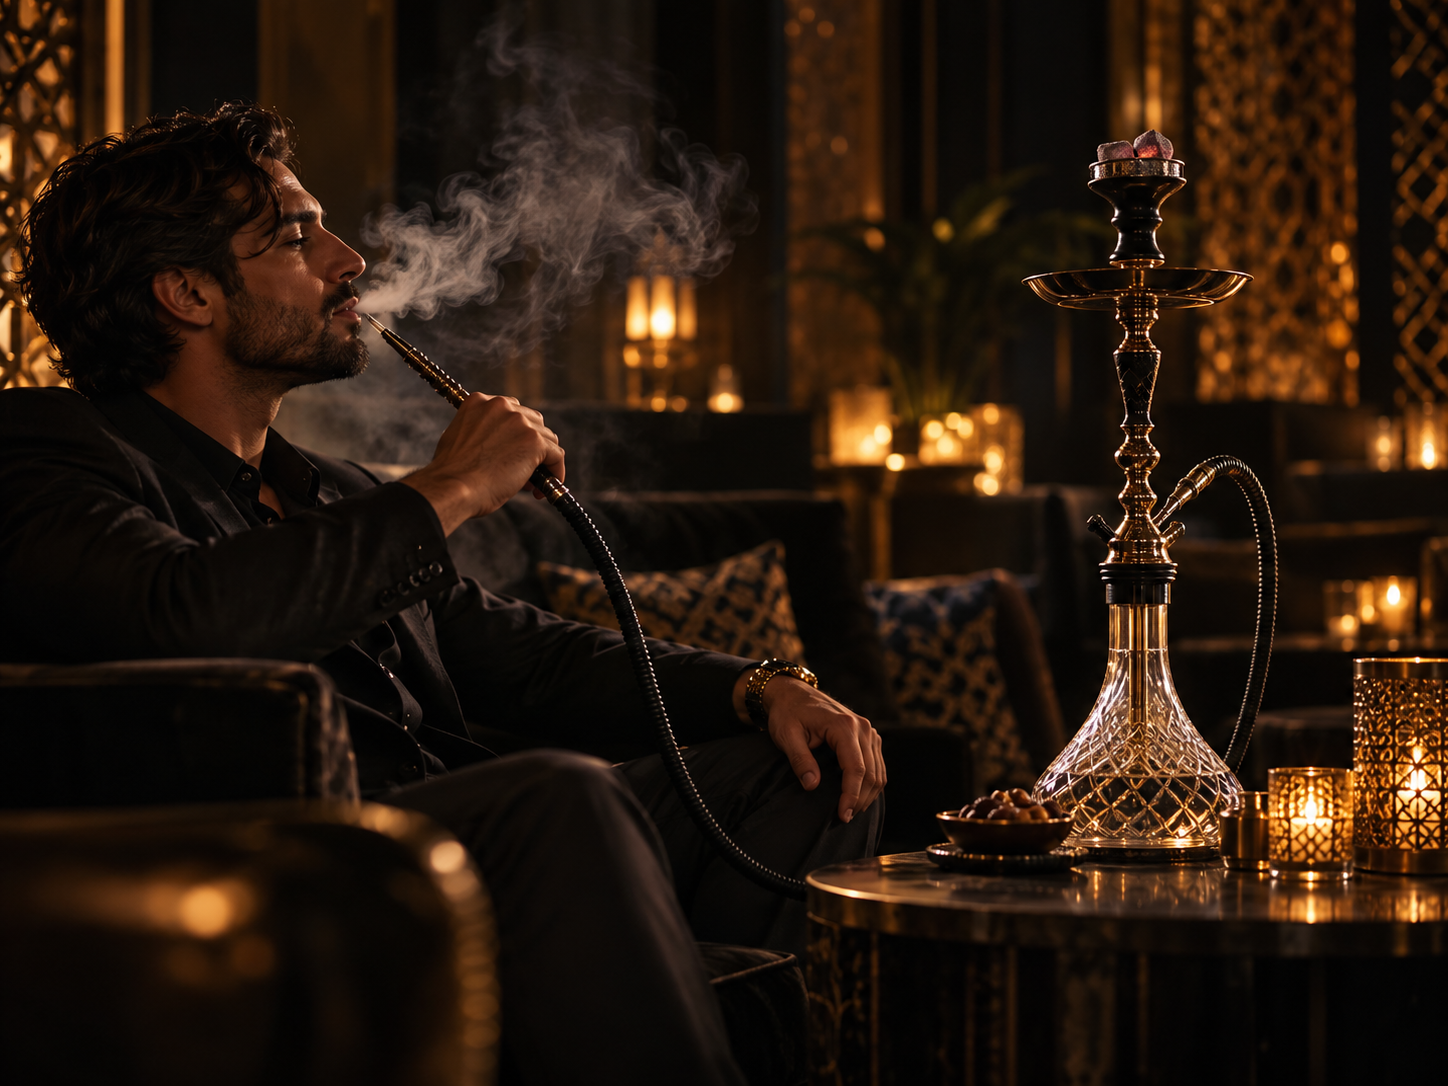
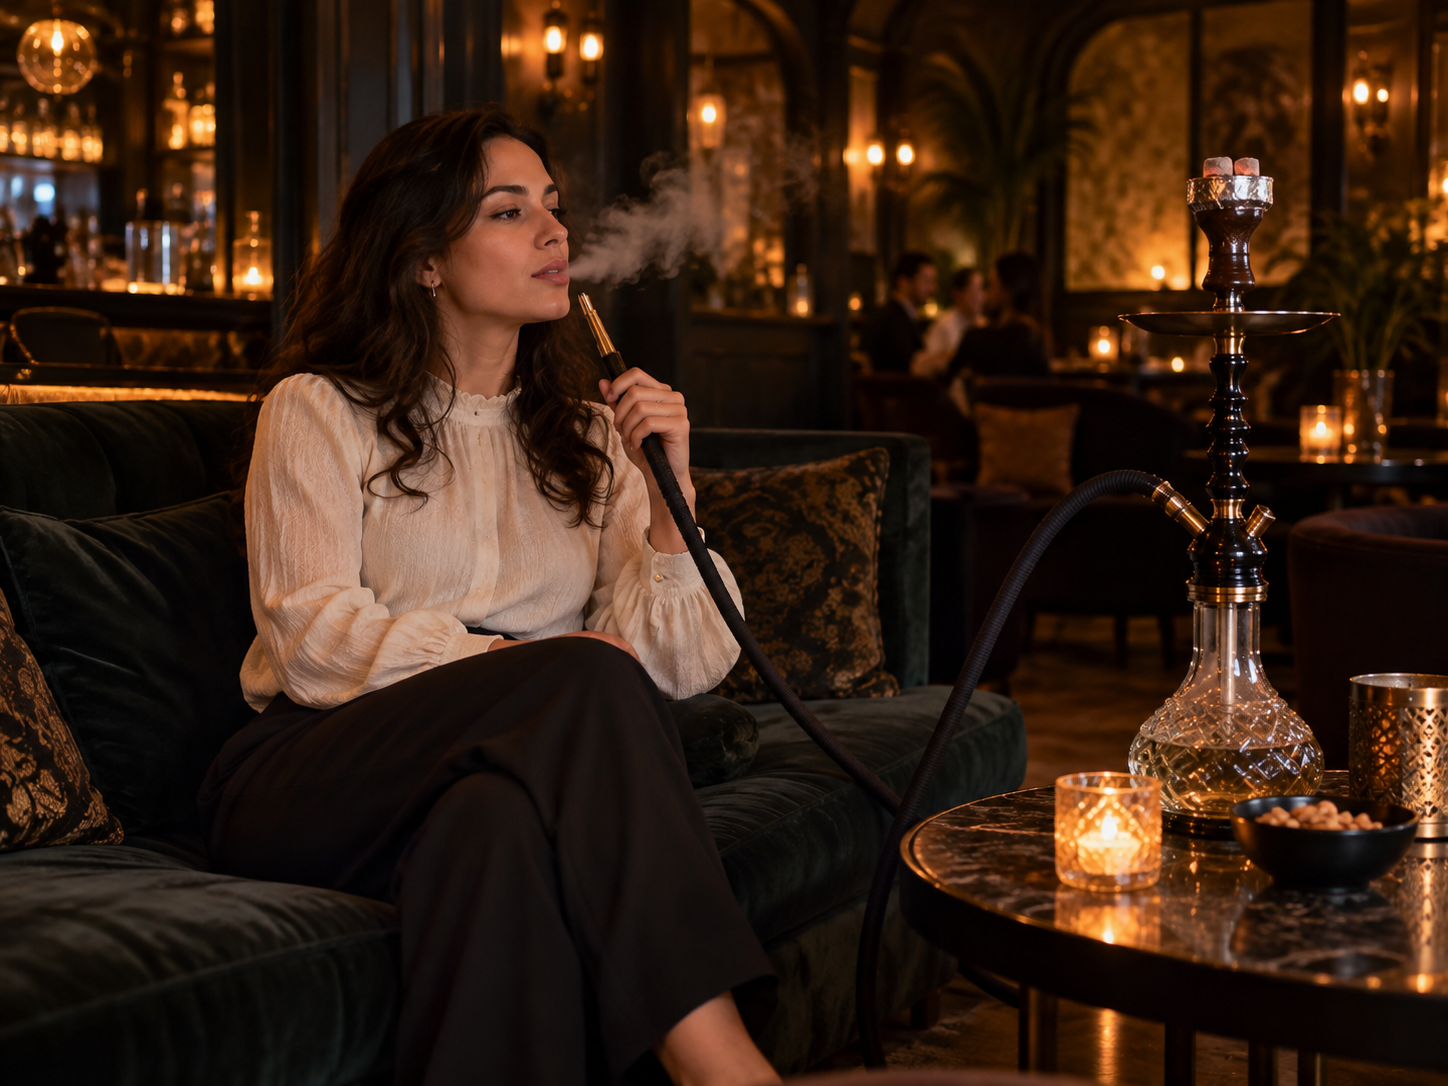
Refine experience cards with smaller imagery and adult women models

diff --git a/assets/style.css b/assets/style.css
@@ -64,10 +64,10 @@ h1,h2,h3,.photo-intro>p:last-child{font-family:var(--serif);font-weight:300}
 @media(max-width:520px){.service-price>strong{font-size:22px}}
 
 /* Darts and shisha: cinematic visual followed by copy and confirmed pricing. */
-.leisure-list{display:grid;gap:34px}.leisure-row{display:grid;grid-template-columns:minmax(0,3fr) minmax(0,2fr);padding:10px;border:1px solid #b5a47c80;background:var(--bg)}
-.leisure-visual{position:relative;min-width:0;overflow:hidden}.leisure-visual img{display:block;width:100%;height:100%;min-height:390px;object-fit:cover;object-position:center;background:var(--panel)}
-.leisure-visual::after{content:"";position:absolute;inset:0;pointer-events:none;background:linear-gradient(90deg,rgba(0,0,0,.06),rgba(0,0,0,.1))}
-.leisure-content{min-width:0;display:flex;flex-direction:column;justify-content:center;padding:36px 34px}
+.leisure-list{display:grid;gap:34px}.leisure-row{display:grid;grid-template-columns:minmax(0,2fr) minmax(0,3fr);padding:24px;border:1px solid #b5a47c80;background:var(--bg)}
+.leisure-visual{position:relative;min-width:0;overflow:hidden;align-self:center}.leisure-visual img{display:block;width:100%;height:auto;min-height:0;aspect-ratio:4/3;object-fit:contain;object-position:center;background:var(--panel)}
+.leisure-visual::after{content:"";position:absolute;inset:0;pointer-events:none;background:linear-gradient(90deg,rgba(0,0,0,.19),rgba(0,0,0,.25))}
+.leisure-content{min-width:0;display:flex;flex-direction:column;justify-content:center;padding:24px 36px}
 .leisure-label{font-size:16px;letter-spacing:.18em;font-weight:500;color:var(--gold);margin-bottom:25px}
 .leisure-content h3{font-family:var(--serif);font-weight:300;font-size:clamp(29px,2.7vw,40px);line-height:1.6;letter-spacing:.065em;margin:0 0 22px}
 .leisure-content h3>span{display:block;font-size:16px;font-weight:500;letter-spacing:.14em;color:var(--muted);margin-bottom:5px}
@@ -75,6 +75,6 @@ h1,h2,h3,.photo-intro>p:last-child{font-family:var(--serif);font-weight:300}
 .leisure-price{border-top:1px solid #b5a47c80;margin-top:30px;padding-top:22px;font-size:20px;letter-spacing:.05em;color:#d5c39d;line-height:1.8}
 .leisure-price strong{font-family:var(--serif);font-size:36px;font-weight:400;letter-spacing:.04em;margin:0 8px}
 .leisure-note{font-size:14px;line-height:1.9;margin-top:18px;color:var(--muted)}.leisure-image-note{font-size:14px;line-height:1.9;margin-top:22px;color:var(--muted)}
-@media(max-width:1100px){.leisure-content{padding:28px 24px}.leisure-row{grid-template-columns:minmax(0,1.2fr) minmax(0,1fr)}}
-@media(max-width:800px){.leisure-row{grid-template-columns:minmax(0,1fr);padding:8px}.leisure-visual img{height:auto;min-height:0;aspect-ratio:4/3;object-fit:contain}.leisure-content{padding:28px 22px 24px}.leisure-label{font-size:15px;margin-bottom:18px}.leisure-content h3{font-size:32px;margin-bottom:18px}.leisure-price{margin-top:24px;padding-top:18px}.leisure-price strong{font-size:32px}.leisure-list{gap:26px}}
-@media(max-width:360px){.leisure-content{padding:24px 16px}.leisure-content h3{font-size:29px}.leisure-price{font-size:18px}.leisure-price strong{font-size:30px}}
+@media(max-width:1100px){.leisure-content{padding:28px 24px}.leisure-row{grid-template-columns:minmax(0,37fr) minmax(0,63fr)}}
+@media(max-width:800px){.leisure-row{grid-template-columns:minmax(0,1fr);padding:16px}.leisure-visual{width:70%;justify-self:center}.leisure-visual img{height:auto;min-height:0;aspect-ratio:4/3;object-fit:contain}.leisure-content{padding:28px 8px 24px}.leisure-label{font-size:15px;margin-bottom:18px}.leisure-content h3{font-size:32px;margin-bottom:18px}.leisure-price{margin-top:24px;padding-top:18px}.leisure-price strong{font-size:32px}.leisure-list{gap:26px}}
+@media(max-width:360px){.leisure-content{padding:24px 8px}.leisure-content h3{font-size:29px}.leisure-price{font-size:18px}.leisure-price strong{font-size:30px}}

diff --git a/index.html b/index.html
@@ -12,7 +12,7 @@
   <meta property="og:description" content="吉祥寺北町で、夜をゆっくり。月〜土 20:00〜翌4:00。ダーツ・シーシャのあるBAR REALTA。">
   <link rel="icon" href="assets/favicon.svg" type="image/svg+xml">
   <link rel="stylesheet" href="assets/fonts.css">
-  <link rel="stylesheet" href="assets/style.css?v=4cb14e6a044d">
+  <link rel="stylesheet" href="assets/style.css?v=428f2d0a8d94">
   <link rel="stylesheet" href="assets/hero.css?v=784bd300a1dc">
   <script src="assets/main.js" defer></script>
   <script type="application/ld+json">
@@ -91,7 +91,7 @@
       <div class="section-heading"><h2 id="experience-title">夜の楽しみ方は、自由に。</h2><p>気分に合わせて、もうひとつの楽しみを。</p></div>
       <div class="leisure-list">
         <article class="leisure-row" aria-labelledby="darts-title">
-          <div class="leisure-visual"><img src="assets/images/darts-atmosphere.png" width="1448" height="1086" alt="暗いバーでダーツを構える大人の手元と、背景のダーツボードを描いたイメージ画像" loading="lazy" decoding="async"></div>
+          <div class="leisure-visual"><img src="assets/images/darts-atmosphere.png?v=089d7538b712" width="1448" height="1086" alt="暗いバーで大人の女性がダーツを構える様子と、背景のダーツボードを描いたイメージ画像" loading="lazy" decoding="async"></div>
           <div class="leisure-content">
             <p class="leisure-label">01 / PLAY</p>
             <h3 id="darts-title"><span>DARTS /</span> ダーツ</h3>
@@ -100,7 +100,7 @@
           </div>
         </article>
         <article class="leisure-row" aria-labelledby="shisha-title">
-          <div class="leisure-visual"><img src="assets/images/shisha-atmosphere.png" width="1448" height="1086" alt="落ち着いたラウンジで大人がシーシャを楽しむ様子と、シーシャ本体を描いたイメージ画像" loading="lazy" decoding="async"></div>
+          <div class="leisure-visual"><img src="assets/images/shisha-atmosphere.png?v=28161f9a0fdc" width="1448" height="1086" alt="落ち着いたラウンジで大人の女性がシーシャを楽しむ様子と、シーシャ本体を描いたイメージ画像" loading="lazy" decoding="async"></div>
           <div class="leisure-content">
             <p class="leisure-label">02 / RELAX</p>
             <h3 id="shisha-title"><span>SHISHA /</span> シーシャ</h3>
